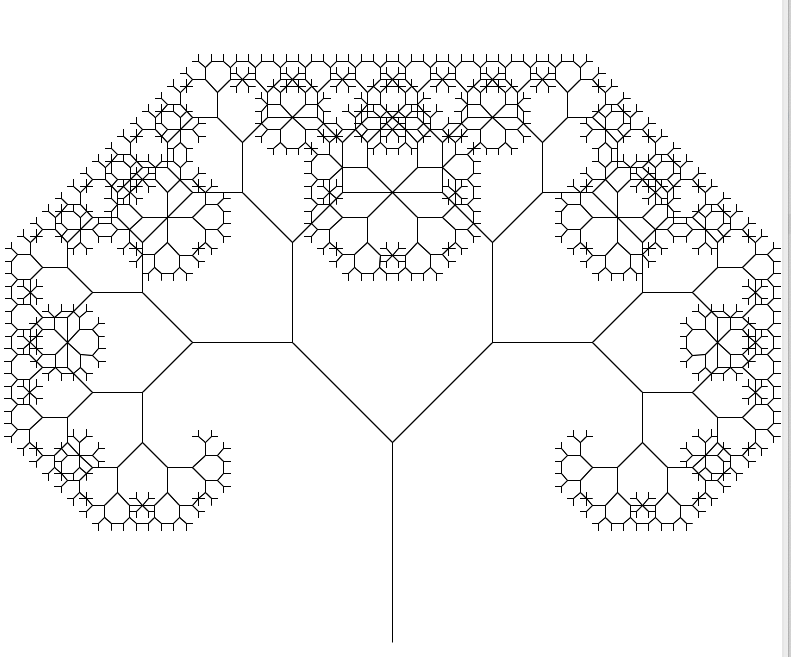
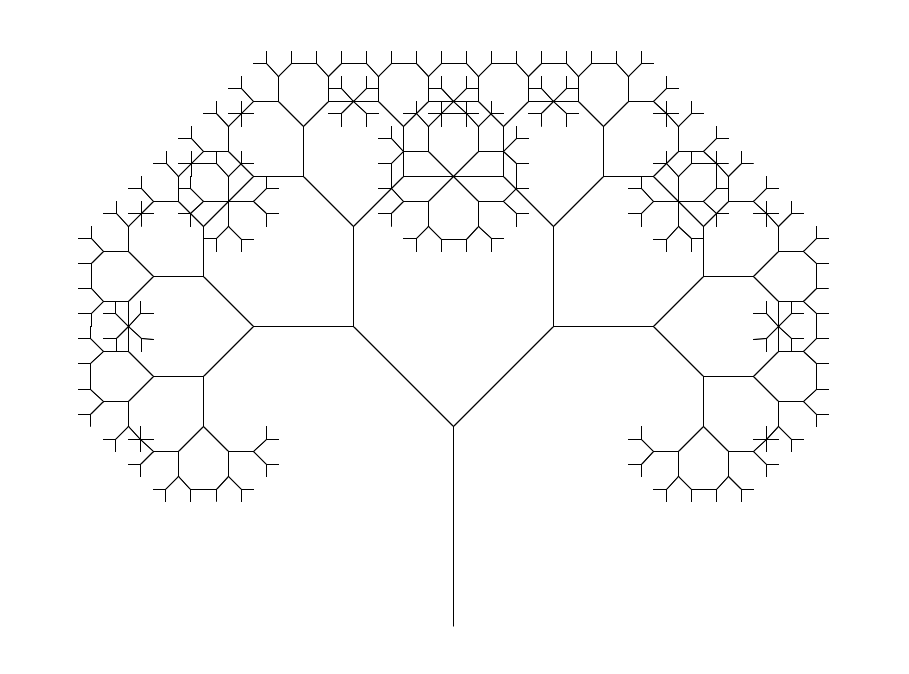
fix recursion level and the result

diff --git a/README.md b/README.md
@@ -26,5 +26,5 @@
 
 ## task02 ##
 #### Pythagoras tree fractal ####
-recursion level = 11
+recursion level = 9
 ![img.png](assets/img.png)
